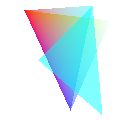
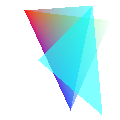
rgba closer to being correct...

Changed region(s): [[0.275, 0.05, 0.75, 0.9]]

diff --git a/cs418_mp_warmup1/cs418_mp1.py b/cs418_mp_warmup1/cs418_mp1.py
@@ -161,16 +161,16 @@ for line in txt_input_clean:
             if vertex_rest in dda1 or vertex_rest in dda2 or vertex_rest in dda3:
                 continue
             if sRGB_flag == True:
-                srgb_final = otherFunc.linear_to_srgb((vertex_rest[2], vertex_rest[3], vertex_rest[4]))
+                # srgb_final = otherFunc.linear_to_srgb((vertex_rest[2], vertex_rest[3], vertex_rest[4]))
                 if rgba_flag == True:
                     a_d = copy.deepcopy(alpha_buffer[round(vertex_rest[0])][round(vertex_rest[1])])
                     a_s = copy.deepcopy(vertex_rest[5])
                     alpha_buffer[round(vertex_rest[0])][round(vertex_rest[1])] = a_s + a_d*(1 - a_s)
                     a_prime = copy.deepcopy(alpha_buffer[round(vertex_rest[0])][round(vertex_rest[1])])
 
-                    r_s = copy.deepcopy(srgb_final[0])
-                    g_s = copy.deepcopy(srgb_final[1])
-                    b_s = copy.deepcopy(srgb_final[2])
+                    r_s = copy.deepcopy(vertex_rest[2])
+                    g_s = copy.deepcopy(vertex_rest[3])
+                    b_s = copy.deepcopy(vertex_rest[4])
                     r_d = copy.deepcopy(rgb_buffer[round(vertex_rest[0])][round(vertex_rest[1])][0])
                     g_d = copy.deepcopy(rgb_buffer[round(vertex_rest[0])][round(vertex_rest[1])][1])
                     b_d = copy.deepcopy(rgb_buffer[round(vertex_rest[0])][round(vertex_rest[1])][2])
@@ -183,8 +183,11 @@ for line in txt_input_clean:
                     gprime = copy.deepcopy(rgb_buffer[round(vertex_rest[0])][round(vertex_rest[1])][1])
                     bprime = copy.deepcopy(rgb_buffer[round(vertex_rest[0])][round(vertex_rest[1])][2])
 
+                    rpime, gprime, bprime = otherFunc.linear_to_srgb((rprime, gprime, bprime))
+
                     image2.im.putpixel((round(vertex_rest[0]), round(vertex_rest[1])), (min(255, round(rprime * 255)), min(255, round(gprime* 255)), min(255, round(bprime * 255)), min(255, round(a_prime * 255))))
                     continue
+                srgb_final = otherFunc.linear_to_srgb((vertex_rest[2], vertex_rest[3], vertex_rest[4]))
                 image2.im.putpixel((round(vertex_rest[0]), round(vertex_rest[1])), (round(srgb_final[0] * 255), round(srgb_final[1] * 255), round(srgb_final[2] * 255), round(vertex_rest[5] * 255)))
                 continue
             image2.im.putpixel((round(vertex_rest[0]), round(vertex_rest[1])), (round(vertex_rest[2]), round(vertex_rest[3]), round(vertex_rest[4]), round(vertex_rest[5])))
